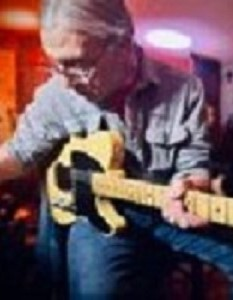
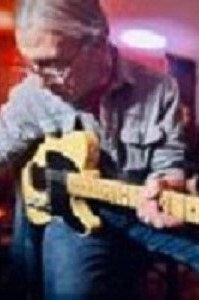
moved video links to bottom

diff --git a/index.htm b/index.htm
@@ -39,26 +39,7 @@
     </div>                                        
 
        
-<p text-align-center>
-    <div class="video-link">
-  
-      <p style=text-align:center> Link to live video recording:<br>
-        <em>Damn Good Drummer</em></p>  
 
-        <p style = "text-align:center">
-        <a href="https://vimeo.com/671753340?fbclid=IwAR0AuxMG2JPocDvae3xkzkJDM3QtB7sTo-MF8t5jyeBqKq5xU19ft4Nz4-Y">
-        <img id = "icon-image"src="assets/images/DamnDrummerPic.jpg"
-            alt ="Damn Good Drummer">   </a> 
-</div>
-   <div class="video-link">
-        <p style=text-align:center> Link to live video recording:<br>
-        <em>As it is in Chicago</em></p>  
-        <p style = "text-align:center">
-        <a href="https://vimeo.com/671772425">
-        <img id ="icon-image"src="assets/images/AsChicagoPic.jpg"
-             alt="As it is in Chicago"> </a>  
-    </div>        
- 
  </div>
 <!------------------------------------------------Begin Phil Section---------------------->
  
@@ -172,7 +153,7 @@
         
  
        <div>
-       <img id="player-photo" src ="Dena.Png" >
+       <img id="player-photo" src ="Dena.PNG" >
        </div>
   
  
@@ -239,7 +220,30 @@
       </div>    
         
       </div>
-         
+   
+<!-----------------------------------------------link to videos--------------------------------->
+<div class= "flex-row">
+      
+ <p text-align-center>
+    <div class="video-link">
+        <p style=text-align:center> Link to live video recording:<br>
+        <em>Damn Good Drummer</em></p>  
+
+        <p style = "text-align:center">
+        <a href="https://vimeo.com/671753340?fbclid=IwAR0AuxMG2JPocDvae3xkzkJDM3QtB7sTo-MF8t5jyeBqKq5xU19ft4Nz4-Y">
+        <img id = "icon-image"src="assets/images/DamnDrummerPic.jpg"
+            alt ="Damn Good Drummer">   </a> 
+    </div>
+
+   <div class="video-link">
+        <p style=text-align:center> Link to live video recording:<br>
+        <em>As it is in Chicago</em></p>  
+        <p style = "text-align:center">
+        <a href="https://vimeo.com/671772425">
+        <img id ="icon-image"src="assets/images/AsChicagoPic.jpg"
+             alt="As it is in Chicago"> </a>  
+   </div>   
+</div>     
  
   </body>
  

diff --git a/assets/style/style.css b/assets/style/style.css
@@ -47,7 +47,7 @@ font-family: 'Ariel';
 }
 
 .video-link {
-width:49%;
+width:47%;
 justify-content:center;
 }
 
